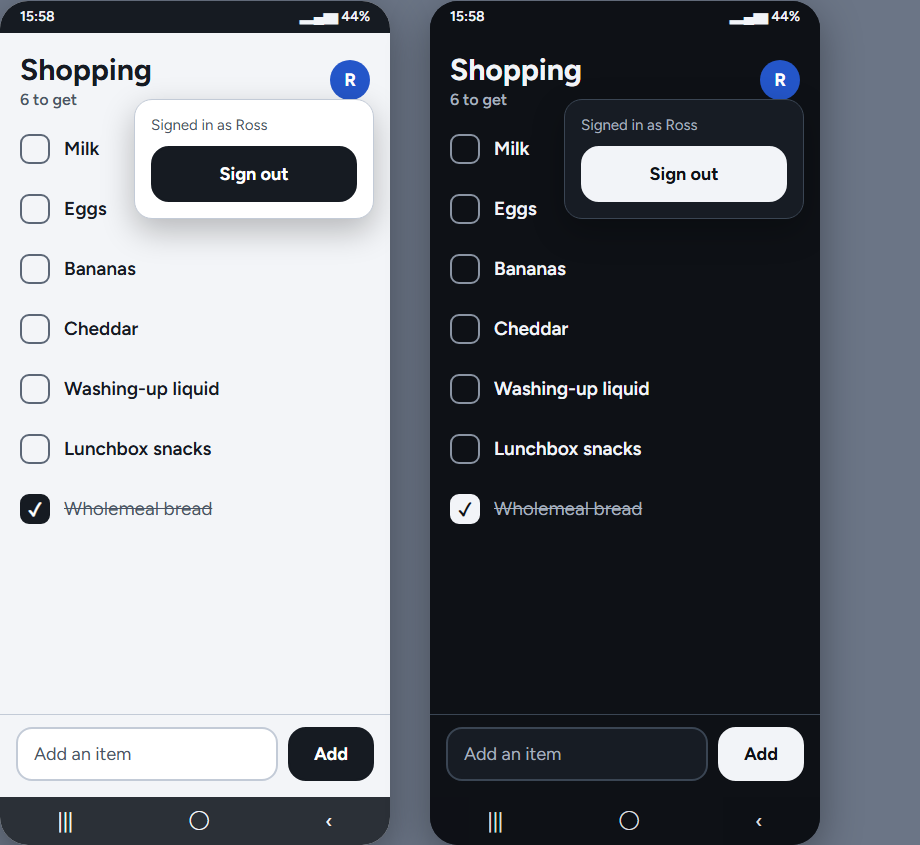
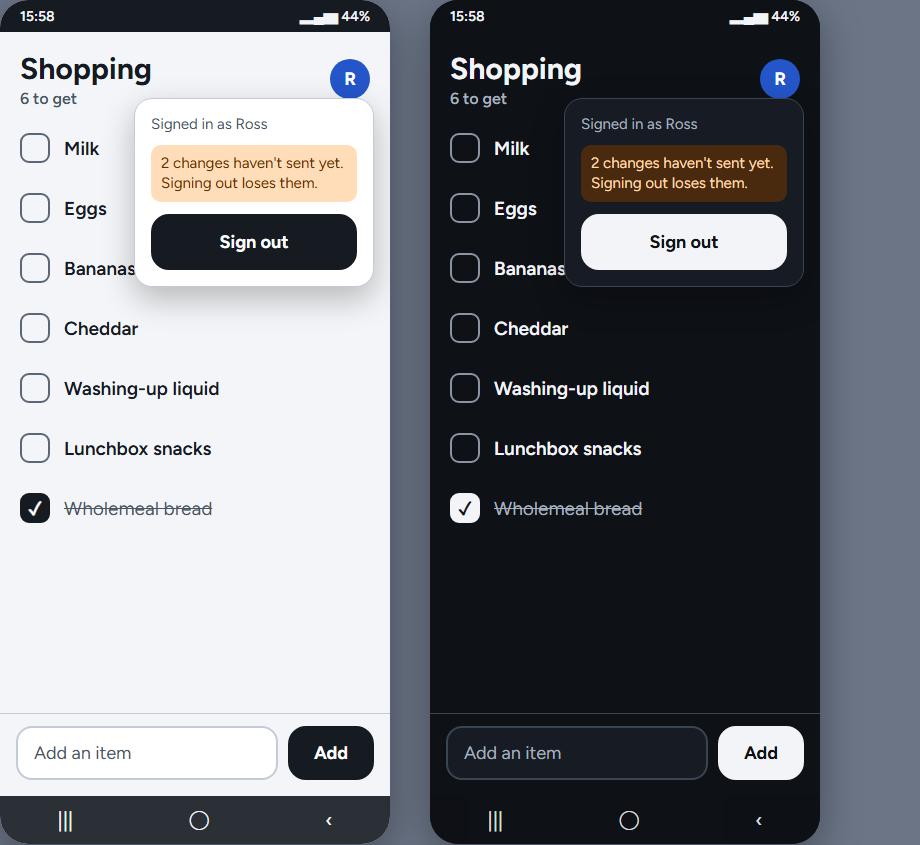
Mockups: Sign out warns when changes haven't sent yet, AB#58

diff --git a/design/mockups/family-app/phone.html b/design/mockups/family-app/phone.html
@@ -116,6 +116,7 @@
 		border: 1px solid var(--line); box-shadow: 0 12px 32px rgb(0 0 0 / 0.25); display: flex; flex-direction: column; gap: 12px;
 		box-sizing: border-box; }
 	.menu p { margin: 0; font-size: 15px; color: var(--dim); }
+	.menu p.unsent { color: var(--warn-fg); background: var(--warn-bg); border-radius: 10px; padding: 8px 10px; line-height: 1.35; }
 	.toast { position: absolute; left: 16px; right: 16px; bottom: 96px; background: var(--ink); color: var(--on-ink);
 		border-radius: 14px; padding: 14px 16px; font-size: 16px; display: flex; justify-content: space-between; }
 	.toast b { text-decoration: underline; }
@@ -250,12 +251,12 @@
 		{
 			id: 'I',
 			title: 'I · Sign out, from the circle (#56)',
-			note: 'Tapping the circle opens a small menu saying who\'s signed in, with Sign out, which goes back to A. Tapping the circle again, or anywhere else, closes it.',
+			note: 'Tapping the circle opens a small menu saying who\'s signed in, with Sign out, which goes back to A and clears the list from the phone. If changes are still waiting to send, it says how many first; Sign out still works, and they\'re lost (#58). Tapping the circle again, or anywhere else, closes it.',
 			body: () =>
 				heading('6 to get') +
 				items(regulars) +
 				addBar() +
-				'<div class="menu"><p>Signed in as Ross</p><button class="btn primary wide">Sign out</button></div>'
+				'<div class="menu"><p>Signed in as Ross</p><p class="unsent">2 changes haven\'t sent yet. Signing out loses them.</p><button class="btn primary wide">Sign out</button></div>'
 		}
 	];
 

diff --git a/design/mockups/family-app/README.md b/design/mockups/family-app/README.md
@@ -28,6 +28,7 @@ The family app on a phone (AB#10, slice 3). `phone.html` draws each screen at 39
 ## Decided (24 November 2026, with Ross, AB#57)
 
 - **A removed item waits on the phone until its Undo has gone,** then the remove is sent, or at once if the app is put away. Undo just puts it back, and nothing reaches the backend: the backend never brings a removed item back.
+- **Signing out with changes still waiting warns, but doesn't block** (AB#58): the circle's menu says how many haven't sent yet. Signing out clears the list from the phone, so they're lost.
 - **Newest at the top, and it stays there:** the order is the one items were added in, so ticking, unticking or changing an item doesn't move it.
 
 Render the PNGs again after changing `phone.html`: open it in Chromium and screenshot each screen's `.pair`.
